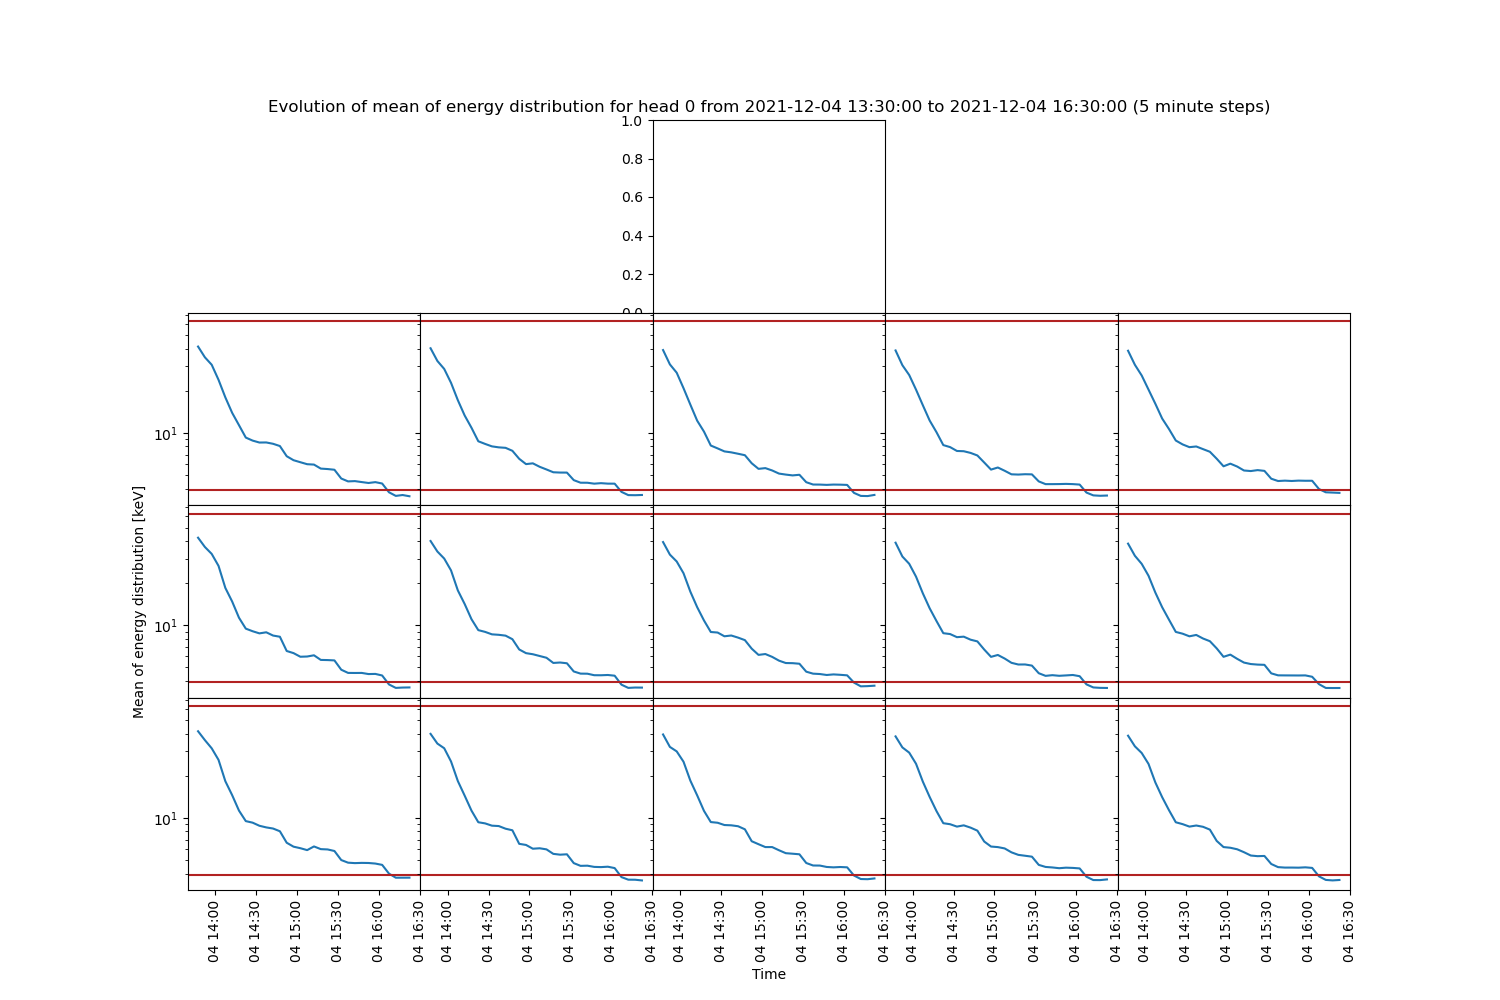
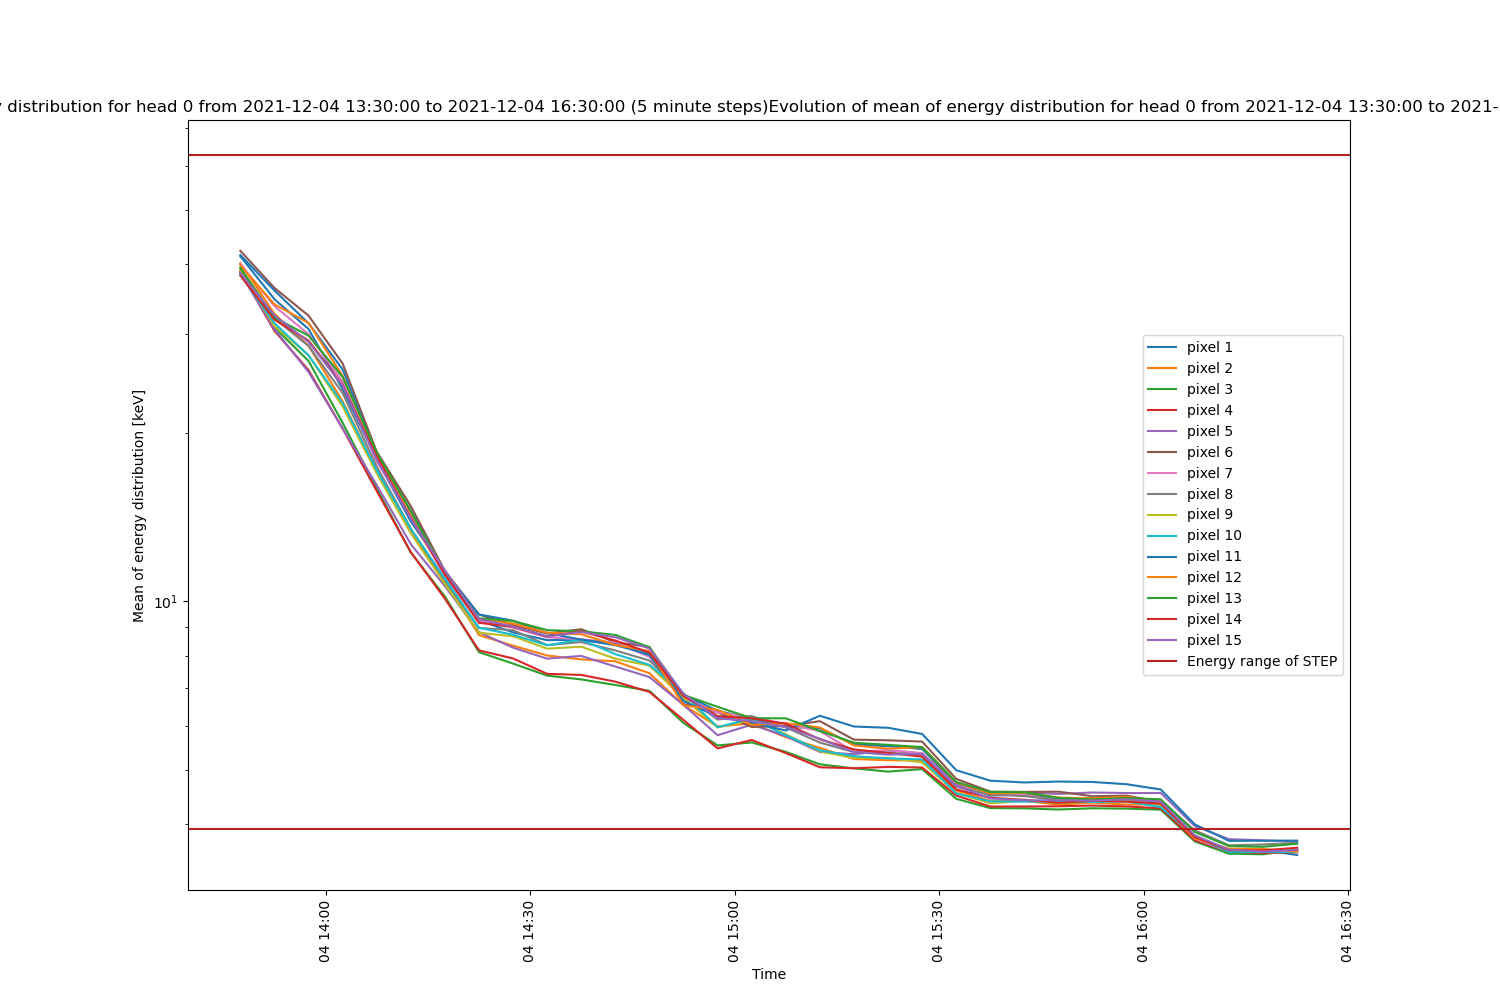
Anpassungen

diff --git a/analyze_nom_II.py b/analyze_nom_II.py
@@ -379,7 +379,7 @@ class STEP:
                 plt.savefig(filename)
         print('Plotted ' + filename + ' successfully.')
 
-    def evolution_energy_means(self, filename, ebins=ebins,res = '1min', head = 0, period = None, window_width = 5, save = False, norm = False, overflow = True, esquare = False, box_list = False):
+    def evolution_energy_means_pixels(self, filename, ebins=ebins,res = '1min', head = 0, period = None, window_width = 5, save = False, norm = False, overflow = True, esquare = False, box_list = False):
         '''Übergebe period und Zeitfensterbreite. Intergriere die jeweiligen Energien in den Zeitfenstern und stelle die Entwicklung der means für die einzelnen Pixel da.
         Bei minütlicher Auflösung entspricht window_width von 5 Einträgen fünf Minuten.'''
         i = 0
@@ -418,15 +418,66 @@ class STEP:
             
         if save:
             if type(save) == str:
-                plt.savefig(save + filename)
+                plt.savefig(save + 'evo_energy_means_pixels_' + filename)
             else:
-                plt.savefig(filename)
-        print('Plotted ' + filename + ' successfully.')
+                plt.savefig('evo_energy_means_pixels_' + filename)
+        print('Plotted evo_energy_means_pixels_' + filename + ' successfully.')
+        
+        
+    def evolution_energy_means_combined(self, filename, ebins=ebins,res = '1min', head = 0, period = None, window_width = 5, pixel_list = [i for i in range(1,16)], save = False, norm = False, overflow = True, esquare = False, box_list = False):
+        '''Übergebe period und Zeitfensterbreite. Intergriere die jeweiligen Energien in den Zeitfenstern und stelle die Entwicklung der means für die angegebenen Pixel
+        in einem Plot dar. Bei minütlicher Auflösung entspricht window_width von 5 Einträgen fünf Minuten.'''
+        i = 0
+        pixel_means = [[] for i in range(16)]     # Liste mit Listen der Mittelwerte der einzelnen Pixel. Die erste Liste enthält die Zeitstempel (jeweils Mitte der Zeitfenster)
+        
+        if type(box_list) == list:
+            little_helper = self.data_prep(ebins,res,head,period,norm,overflow,esquare)[0]
+            pldat = self.data_boxes(little_helper,box_list)
+        else:
+            pldat = self.data_prep(ebins,res,head,period,norm,overflow,esquare)[0]
+
+        while (period[0] + dt.timedelta(minutes=(i+1)*window_width)) <= period[1]:
+            pixel_means[0].append(period[0] + dt.timedelta(minutes=(i+0.5)*window_width))
+            
+            # Berechnung der Mittelwerte:
+            for k in pixel_list:
+                pdat = pldat[k][i*window_width:(i+1)*window_width]
+                integral = np.sum(pdat,axis=0)
+                # calculating mean
+                mean = 0.0
+                for j in range(len(integral)):
+                    # Für Bestimmung des Mittelwertes der Verteilung wird Mitte der Bins gewählt
+                    mean += integral[j]*0.5*(ebins[j+1]+ebins[j])
+                mean = mean/np.sum(integral)
+                pixel_means[k].append(mean)
+            i +=1
+        
+        fig = plt.figure(figsize=(9,8))
+        plt.title('Evolution of mean of energy distribution for head ' + str(head) + '\nfrom ' + str(period[0]) + ' to ' + str(period[1]) + ' (' + str(window_width) + ' minute steps)')
+        plt.xlabel('Time')
+        plt.ylabel('Mean of energy distribution [keV]')
+        plt.yscale('log')
+        plt.tick_params(axis='x',labelrotation=45)
+        
+        for i in pixel_list:
+            plt.plot(pixel_means[0],pixel_means[i],label='Pixel ' + str(i))
+        plt.axhline(ebins[8],color='firebrick')
+        plt.axhline(ebins[40],color='firebrick', label='Energy range of STEP')
+            
+        plt.legend()
+            
+        if save:
+            if type(save) == str:
+                plt.savefig(save + 'evo_energy_means_combined_' + filename)
+            else:
+                plt.savefig('evo_energy_means_combined_' + filename)
+        print('Plotted evo_energy_means_combined_' + filename + ' successfully.')
 
 
-    def evolution_energy_means_ts(self, filename, head, norm, save, period, box_list):
+    def evolution_energy_means_ts(self, filename, head, norm, save, period, box_list, pixel_list):
         '''Kombiniere Plots der Zeitreihe und der Energiemittelwerte für bestimmte Boxen. filename gilt für den Mittelwertsplot.'''
-        self.evolution_energy_means(filename=filename,norm=norm,save=save,period=period,box_list=box_list)
+        self.evolution_energy_means_pixels(filename=filename,norm=norm,save=save,period=period,box_list=box_list)
+        self.evolution_energy_means_combined(filename=filename,norm=norm,pixel_list=pixel_list,save=save,period=period,box_list=box_list)
         self.plot_ts(period=period, head=head, save=save, norm=norm,box_list=box_list)
     
 

diff --git a/analyze_data.py b/analyze_data.py
@@ -6,10 +6,11 @@ import datetime as dt
 
 from analyze_nom_II import STEP
 
-dat = STEP(2021,12,4,rpath='data/')
-# dat = STEP(2021,12,4)
+#dat = STEP(2021,12,4,rpath='data/')
+dat = STEP(2021,12,4)
 
 box_list = [[[15,35],[30,38]],[[20,45],[25,30]],[[26,80],[20,25]],[[30,120],[15,20]],[[40,155],[10,15]],[[50,170],[3,10]]]
+pixel_list = [4,9,14]
 
 # dat.marginal_distribution(pixel=4,norm='tmax',save='analyze/')
 # dat.marginal_distribution(pixel=4,norm='tmax',save='analyze/',period=[dt.datetime(2021,12,4,13,30),dt.datetime(2021,12,4,16,30)],fit=True)
@@ -19,7 +20,7 @@ box_list = [[[15,35],[30,38]],[[20,45],[25,30]],[[26,80],[20,25]],[[30,120],[15,
 # dat.evolution_energy_means(filename='test_evolution.png',norm='tmax',save='etracks/',period=[dt.datetime(2021,12,4,13,30),dt.datetime(2021,12,4,16,30)],box_list=box_list)
 # dat.plot_ts(period=[dt.datetime(2021,12,4,13,30),dt.datetime(2021,12,4,16,30)], head=0, save='etracks/', norm='tmax',box_list=box_list)
 
-dat.evolution_energy_means_ts(filename='test_evolution.png',head=0,norm='tmax',save='etracks/',period=[dt.datetime(2021,12,4,13,30),dt.datetime(2021,12,4,16,30)],box_list=box_list)
+dat.evolution_energy_means_ts(filename='test_evolution.png',head=0,norm='tmax',save='etracks/',period=[dt.datetime(2021,12,4,13,30),dt.datetime(2021,12,4,16,30)],box_list=box_list,pixel_list=pixel_list)
 
 
 # dat = STEP(2021,12,5)
